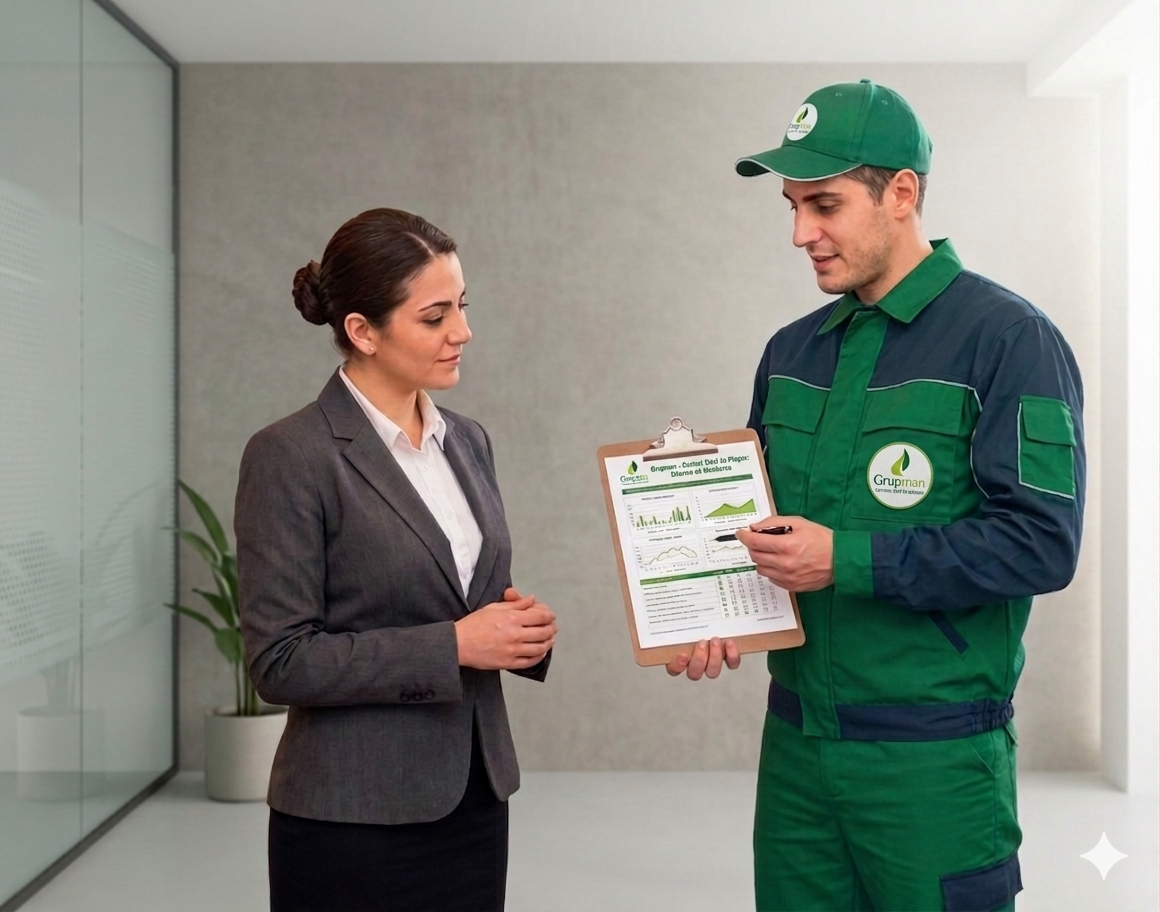
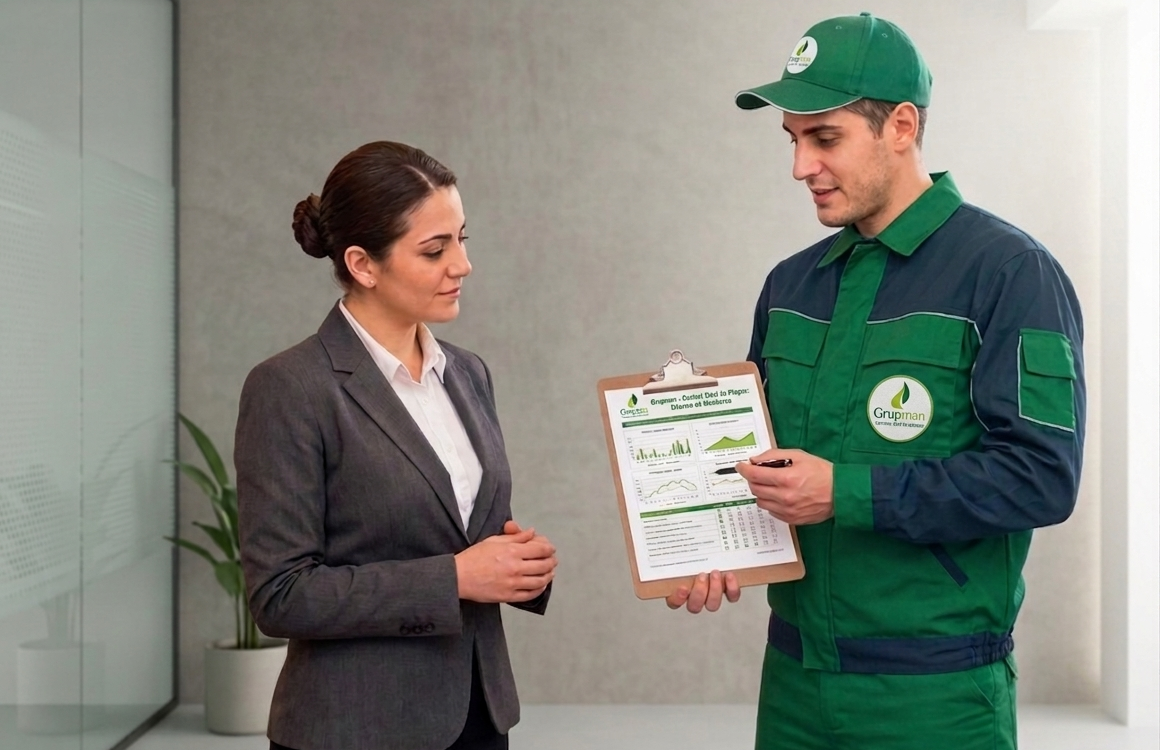
add_new_images_for_monitoring_service

diff --git a/src/data/services.js b/src/data/services.js
@@ -54,7 +54,7 @@ export default [
         Seguimos las técnicas descritas en el Protocolo para la Vigilancia y
         Control de Roedores Sinantrópicos de la OMS.
     `,
-    image: require('@/assets/servicio3.png'),
+    image: require('@/assets/servicio3.jpeg'),
     images_large: require('@/assets/Imagen_servicio_desratización_L.png'),
     image_home: require('@/assets/rodent.svg'),
     details_button: 'Detalles',
@@ -88,7 +88,7 @@ export default [
     longDescription: `
       Ofrecemos visitas de evaluación para presentar la mejor propuesta técnica según tus necesidades. Supervisamos periódicamente los tratamientos aplicados, brindamos asesoría constante y entregamos informes de gestión detallados para asegurar el éxito en el control de plagas y la satisfacción del cliente.
     `,
-    image: require('@/assets/servicio5_provicional.png'), // Cambiar la imagen si se tiene una mejor
+    image: require('@/assets/servicio5.png'), // Cambiar la imagen si se tiene una mejor
     images_large: require('@/assets/monitoreo_large.png'),
     image_home: require('@/assets/monitoring.svg'),
     details_button: 'Detalles',